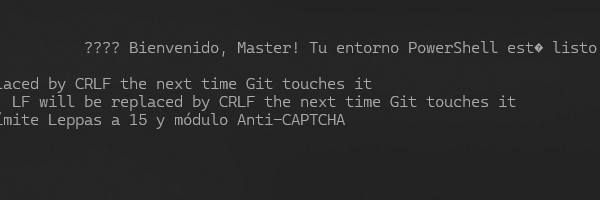
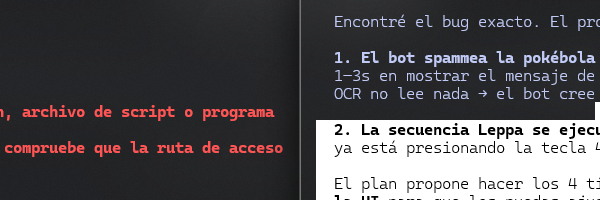
fix(ditto): Timings configurables + fix OCR de captura + Leppa pre-wait
- _check_capture_result: espera 'timing_ball_wait' ANTES del OCR (evita spam de pokebola).
- Distingue FAILURE ('broke free') de 'sin respuesta todavia'.
- Settle configurable post-captura ('timing_capture_settle').
- Leppa pre-wait configurable ('timing_leppa_wait') para esperar que cargue el mapa.
- GUI: Seccion Timings en tab Ditto con 4 campos editables.
- config.json: 4 nuevos params con defaults.

Changed region(s): [[0.0, 0.0, 1.0, 1.0], [0.54, 0.09, 1.0, 0.15]]

diff --git a/main_gui.py b/main_gui.py
@@ -294,9 +294,45 @@ class ShinyHunterGUI(ctk.CTk):
         if self.get_config_val("auto_heal_pp", "True") == "True":
             self.heal_pp_check.select()
 
+        # ── Sección de Timings ──────────────────────────────────────────
+        timing_frame = ctk.CTkFrame(tab, fg_color="#1a1a2e")
+        timing_frame.grid(row=6, column=0, columnspan=4, padx=10, pady=(8, 4), sticky="ew")
+
+        ctk.CTkLabel(timing_frame, text="⏱  Timings de Captura",
+                      font=ctk.CTkFont(size=12, weight="bold"),
+                      text_color="#FFCB6B").grid(
+            row=0, column=0, columnspan=4, padx=10, pady=(6, 2), sticky="w")
+
+        # Row 1: Ball Wait | Capture Settle
+        ctk.CTkLabel(timing_frame, text="OCR Wait (s):", font=ctk.CTkFont(size=11)).grid(
+            row=1, column=0, padx=10, pady=3, sticky="w")
+        self.timing_ball_wait_entry = ctk.CTkEntry(timing_frame, width=55)
+        self.timing_ball_wait_entry.grid(row=1, column=1, padx=5, pady=3, sticky="w")
+        self.timing_ball_wait_entry.insert(0, self.get_config_val("timing_ball_wait", "0.5"))
+
+        ctk.CTkLabel(timing_frame, text="Settle (s):", font=ctk.CTkFont(size=11)).grid(
+            row=1, column=2, padx=10, pady=3, sticky="w")
+        self.timing_settle_entry = ctk.CTkEntry(timing_frame, width=55)
+        self.timing_settle_entry.grid(row=1, column=3, padx=5, pady=3, sticky="w")
+        self.timing_settle_entry.insert(0, self.get_config_val("timing_capture_settle", "2.5"))
+
+        # Row 2: Leppa Wait | Ball Press
+        ctk.CTkLabel(timing_frame, text="Leppa Pre-Wait (s):", font=ctk.CTkFont(size=11)).grid(
+            row=2, column=0, padx=10, pady=3, sticky="w")
+        self.timing_leppa_wait_entry = ctk.CTkEntry(timing_frame, width=55)
+        self.timing_leppa_wait_entry.grid(row=2, column=1, padx=5, pady=3, sticky="w")
+        self.timing_leppa_wait_entry.insert(0, self.get_config_val("timing_leppa_wait", "1.5"))
+
+        ctk.CTkLabel(timing_frame, text="Ball Press Delay (s):", font=ctk.CTkFont(size=11)).grid(
+            row=2, column=2, padx=10, pady=3, sticky="w")
+        self.timing_ball_press_entry = ctk.CTkEntry(timing_frame, width=55)
+        self.timing_ball_press_entry.grid(row=2, column=3, padx=5, pady=(3, 6), sticky="w")
+        self.timing_ball_press_entry.insert(0, self.get_config_val("timing_ball_press_wait", "0.7"))
+        # ────────────────────────────────────────────────────────────────
+
         ctk.CTkButton(tab, text="SAVE DITTO CONFIG", fg_color="#1f538d",
                        height=36, command=self.save_all).grid(
-            row=6, column=0, columnspan=4, padx=20, pady=8, sticky="ew")
+            row=7, column=0, columnspan=4, padx=20, pady=8, sticky="ew")
 
     def _build_brain_tab(self):
         """Pestaña Brain Viewer — muestra el código Python del modo activo"""
@@ -713,6 +749,12 @@ class ShinyHunterGUI(ctk.CTk):
             config["ditto_key_leppa"] = self.leppa_key_entry.get()
             config["auto_heal_hp"] = bool(self.heal_hp_check.get())
             config["auto_heal_pp"] = bool(self.heal_pp_check.get())
+
+            # Timings de captura
+            config["timing_ball_wait"]       = float(self.timing_ball_wait_entry.get())
+            config["timing_capture_settle"]  = float(self.timing_settle_entry.get())
+            config["timing_leppa_wait"]      = float(self.timing_leppa_wait_entry.get())
+            config["timing_ball_press_wait"] = float(self.timing_ball_press_entry.get())
 
             with open("config.json", "w") as f:
                 json.dump(config, f, indent=4)

diff --git a/src/modes/base.py b/src/modes/base.py
@@ -139,7 +139,9 @@ class HuntingMode:
 
         if leppas and self.config.get("auto_heal_pp", True):
             self.log("━━━━━━━━━━ 💊 HEALING ━━━━━━━━━━", "PHASE")
-            time.sleep(1.0)
+            leppa_wait = float(self.config.get("timing_leppa_wait", 1.5))
+            self.log(f"⏳ Waiting {leppa_wait}s for map to load before Leppa...", "HEAL")
+            time.sleep(leppa_wait)
             self.bot.reset_activity_timer()
             self.log(f"Restoring {len(leppas)} move(s) from PP queue...", "HEAL")
             for slot_data in list(leppas):
@@ -154,18 +156,47 @@ class HuntingMode:
         self.log(f"━━━━━━━━━━ END CAPTURE ━━━━━━━━━━", "PHASE")
 
     def _check_capture_result(self):
-        for _ in range(60): 
+        """
+        Espera el resultado de la Pokébola con timings configurables.
+        - Espera 'timing_ball_wait' segundos ANTES de empezar el OCR (para la animación de sacudidas).
+        - Si detecta SUCCESS, espera 'timing_capture_settle' segundos antes de cerrar diálogos.
+        - Distingue FAILURE (rompió libre) de 'sin respuesta todavía'.
+        """
+        ball_wait   = float(self.config.get("timing_ball_wait", 0.5))
+        settle_time = float(self.config.get("timing_capture_settle", 2.5))
+
+        # Esperar la animación de la pokébola ANTES de empezar a leer el OCR
+        self.log(f"⏳ Waiting {ball_wait}s for ball animation...", "DEBUG")
+        time.sleep(ball_wait)
+
+        for _ in range(60):
+            if not self.bot.running:
+                return False
             fb = self.observer.capture_frame()
             m = self.bot.check_msg_area(fb)
-            if m == "SUCCESS": 
-                self.log("CAPTURE CONFIRMED!", "SUCCESS")
-                # CORRECCIÓN: Esperar a que la ventana de stats del Ditto aparezca
-                # antes de intentar cerrarla, si no las X van al vacío.
-                time.sleep(2.5)
+
+            if m == "SUCCESS":
+                self.log("🎉 Message read: CAUGHT!", "SUCCESS")
+                self.log(f"⏳ Settling {settle_time}s for dialogs...", "DEBUG")
+                time.sleep(settle_time)
+                # Cerrar ventanas de stats/PokéDex
                 for _ in range(6):
                     self.controller._press('x')
                     time.sleep(0.5)
                 return True
-            if self.bot.is_menu_ready(fb): return False
+
+            if m == "FAILURE":
+                self.log("💨 Ball broke free — retrying next turn.", "WARN")
+                # Esperar a que el menú de batalla vuelva
+                time.sleep(1.5)
+                return False
+
+            if self.bot.is_menu_ready(fb):
+                # El menú volvió sin mensaje de captura → escapó o tardó demasiado
+                return False
+
             time.sleep(0.2)
+
+        self.log("⏱ Capture check timed out after 60 polls.", "WARN")
         return False
+
